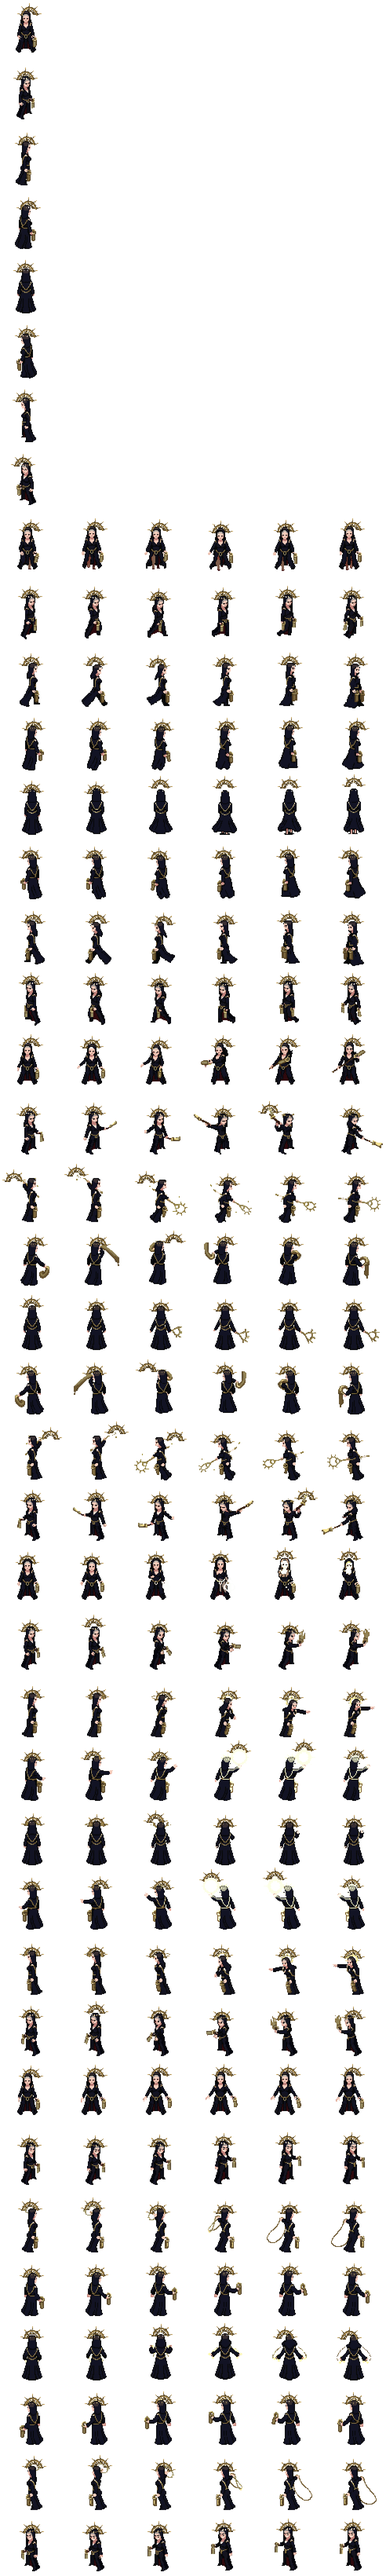
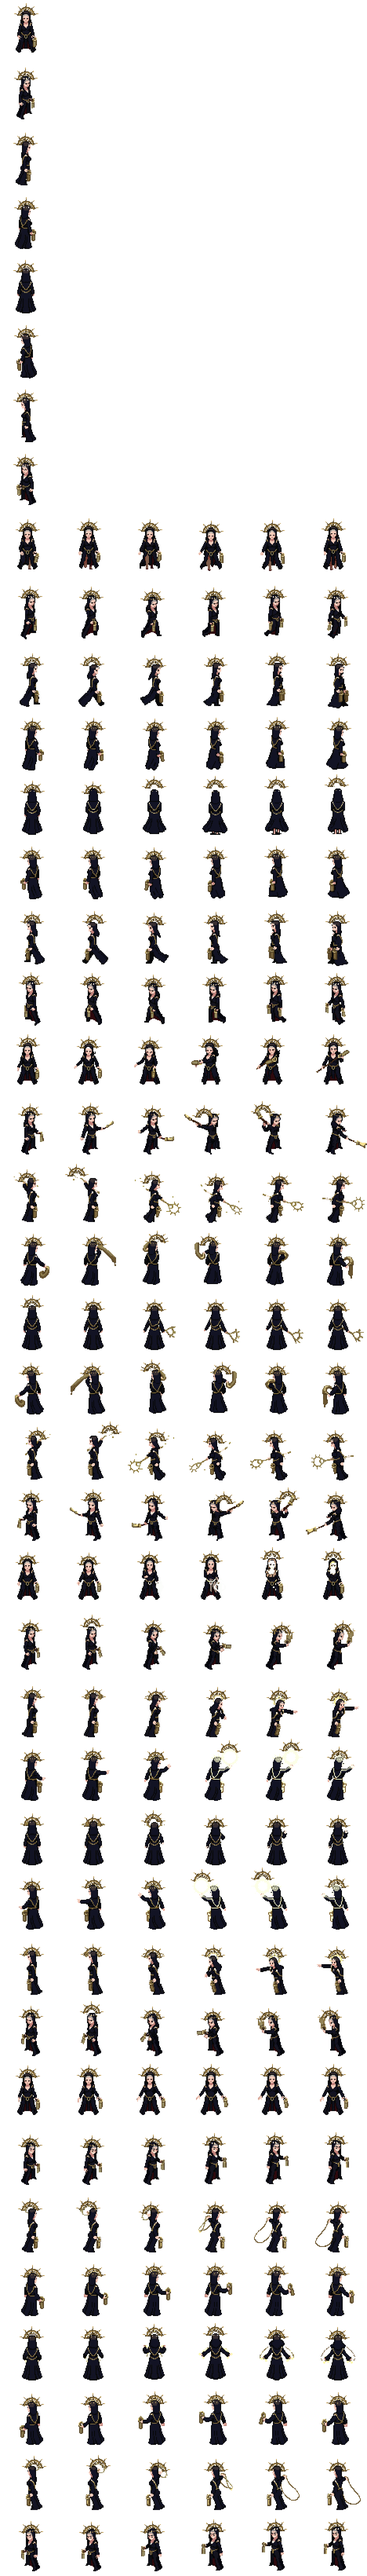
Halo painter centres on the head (not the hood's peak)

diff --git a/tools/inquisitor_halo.py b/tools/inquisitor_halo.py
@@ -44,16 +44,21 @@ def fix_frame(im, head_rows=26):
                 # Her armor stays gold, but tarnished: less saturated, darkened (the user, 2026-10-06).
                 lum = 0.3 * p[0] + 0.59 * p[1] + 0.11 * p[2]
                 px[x, y] = tuple(int((c * 0.65 + lum * 0.35) * 0.66) for c in p[:3]) + (p[3],)
-    # Her head: the top of what's left.
-    head = None
+    # Her head: the top of what's left. Centre the halo on the middle of the head over its top ten rows
+    # (the hood's peak alone sits off to one side, so the halo looked off-centre; the user, 2026-10-06).
+    top = None
     for y in range(out.height):
+        if any(px[x, y][3] > 0 for x in range(out.width)):
+            top = y
+            break
+    if top is None:
+        return out
+    mids = []
+    for y in range(top, min(out.height, top + 10)):
         xs = [x for x in range(out.width) if px[x, y][3] > 0]
         if xs:
-            head = (sum(xs) / len(xs), y)
-            break
-    if head is None:
-        return out
-    cx, cy = head[0], head[1] + 6
+            mids.append((min(xs) + max(xs)) / 2)
+    cx, cy = sum(mids) / len(mids), top + 6
 
     def put(x, y, c, over=False):
         x, y = int(round(x)), int(round(y))
